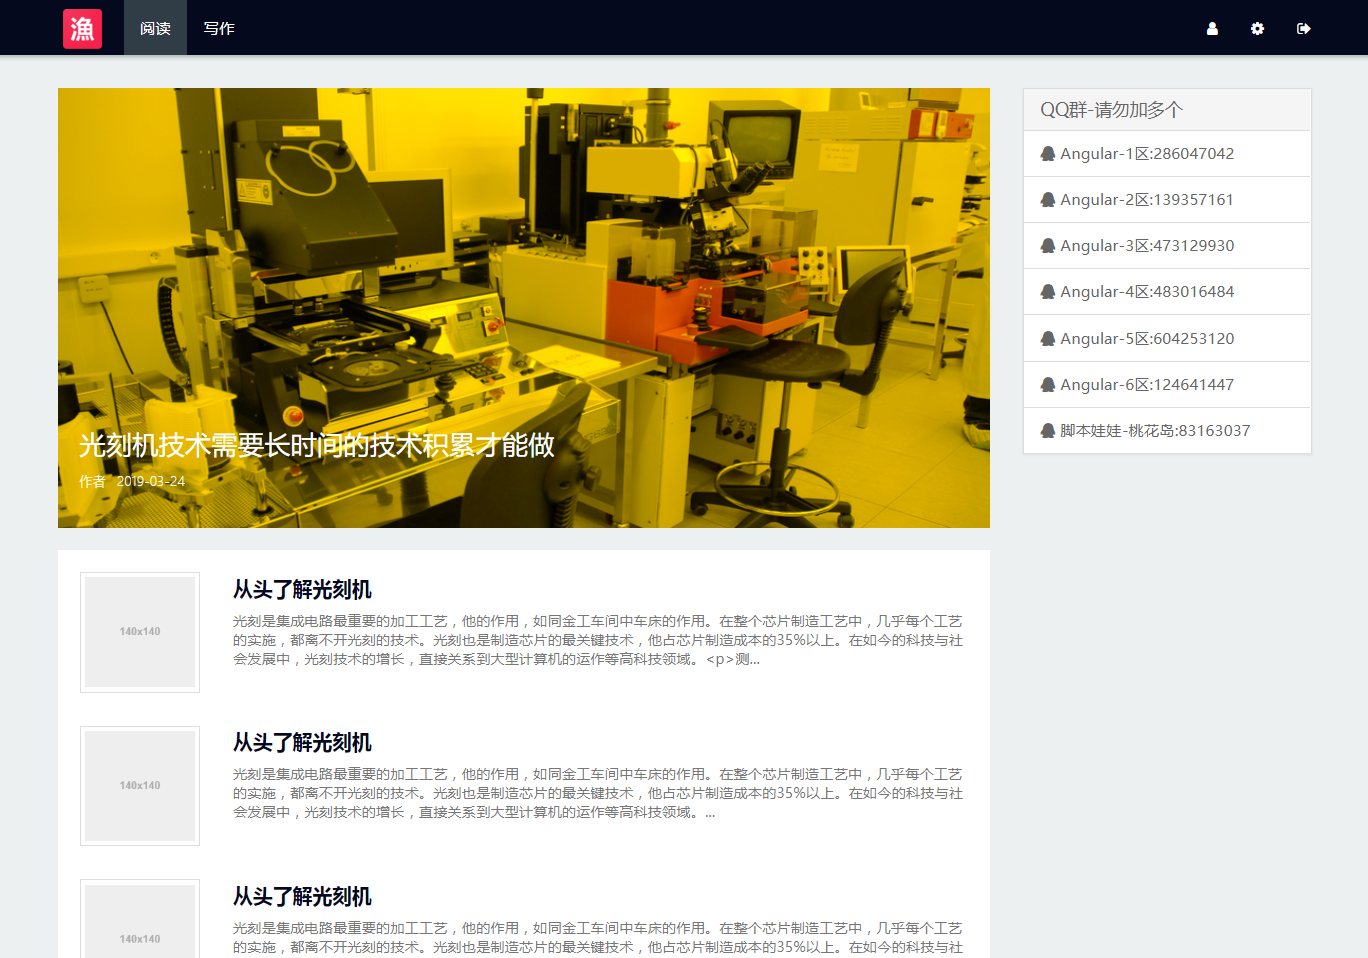
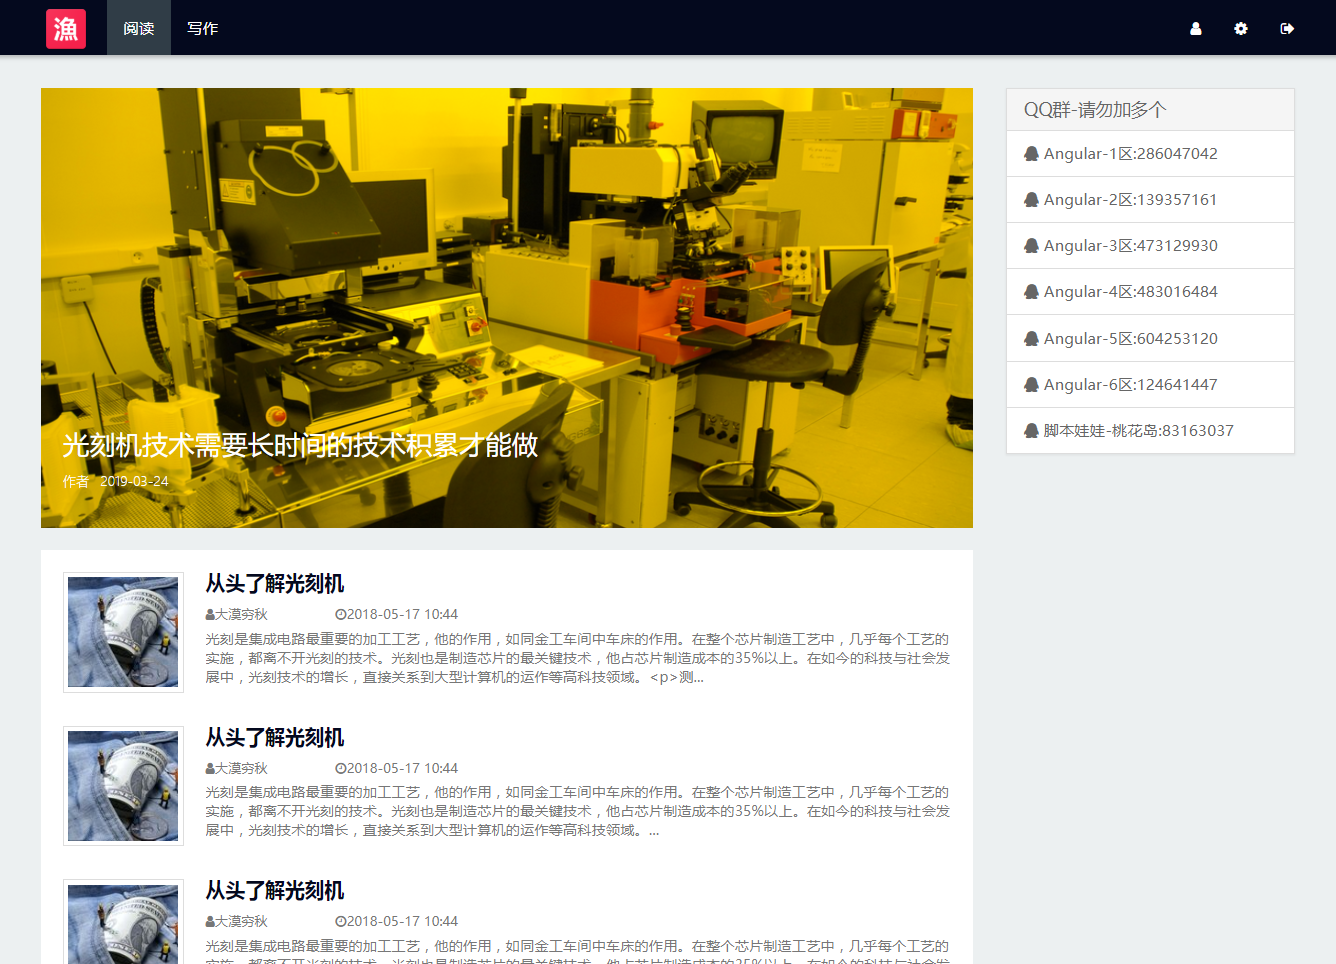
修改文章列表样式

diff --git a/src/app/blog/post/post-list/post-list.component.scss b/src/app/blog/post/post-list/post-list.component.scss
@@ -6,33 +6,37 @@ $postListContainerBgColor:#ecf0f1;
     .post-item-container {
         margin: 0 0 30px 0;
         background-color: #ffffff;
-        h3 {
-            font-size: 18px;
-            margin: 5px 0px 10px 0px;
-            font-weight: 600;
-        }
-        .user-name-intitle {
-            font-size: 12px;
-            color: #777;
-            padding-bottom: 5px;
-        }
-        .abs {
-            line-height: 18px;
-            color: $textColor;
-            font-size: small; // max-height: 80px;
-            padding-bottom: 5px;
-            white-space: nowrap;
-            overflow: hidden;
-            white-space: pre-wrap;
-            /* CSS3 */
-            white-space: -moz-pre-wrap;
-            /* Firefox */
-            white-space: -pre-wrap;
-            /* Opera <7 */
-            white-space: -o-pre-wrap;
-            /* Opera 7 */
-            word-wrap: break-word;
-            /* IE */
+        .post-item-text-container {
+            margin: 0px;
+            padding-left: 5px;
+            h3 {
+                font-size: 18px;
+                margin: 0px 0px 10px 0px;
+                font-weight: 600;
+            }
+            .user-name-intitle {
+                font-size: 12px;
+                color: #777;
+                padding-bottom: 5px;
+            }
+            .abs {
+                line-height: 18px;
+                color: $textColor;
+                font-size: small; // max-height: 80px;
+                padding-bottom: 5px;
+                white-space: nowrap;
+                overflow: hidden;
+                white-space: pre-wrap;
+                /* CSS3 */
+                white-space: -moz-pre-wrap;
+                /* Firefox */
+                white-space: -pre-wrap;
+                /* Opera <7 */
+                white-space: -o-pre-wrap;
+                /* Opera 7 */
+                word-wrap: break-word;
+                /* IE */
+            }
         }
     }
 }

diff --git a/src/app/blog/post/post-list/post-list.component.html b/src/app/blog/post/post-list/post-list.component.html
@@ -5,9 +5,9 @@
             <div class="post-item-container" *ngFor="let post of postList">
                 <div class="row">
                     <div class="col-md-2">
-                        <img src="assets/imgs/img-alt.png" alt="..." class="img-thumbnail">
+                        <img src="assets/imgs/2.jpg" alt="..." class="img-thumbnail">
                     </div>
-                    <div class="col-md-10">
+                    <div class="col-md-10 post-item-text-container">
                         <h3>
                             <a [routerLink]="['/post/post-detail',post.postId]">{{post.title}}</a>
                         </h3>
